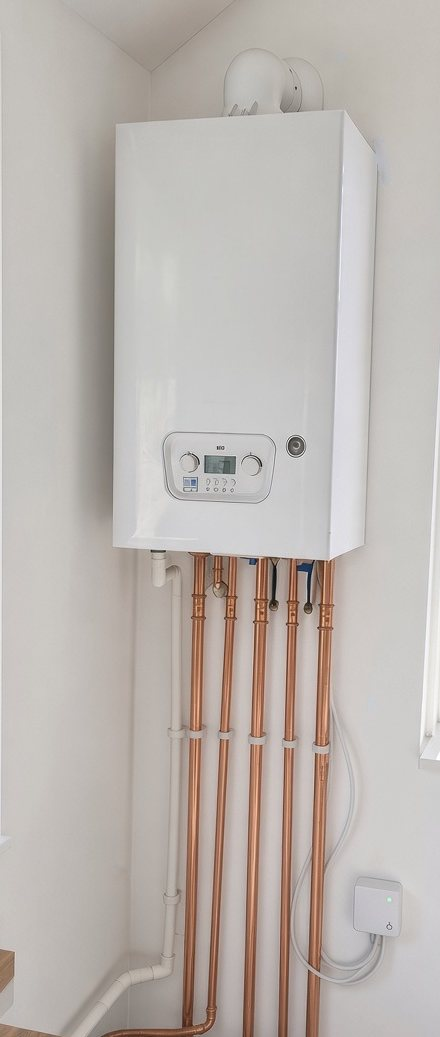
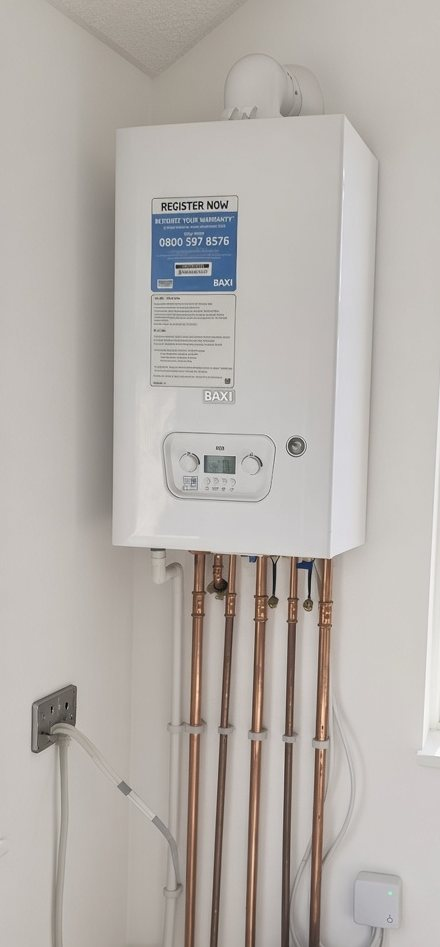
Before/after frames matched; kitchen 400 photo swapped for Gavin's new edit

diff --git a/index.html b/index.html
@@ -219,9 +219,9 @@
     </div>
     <div class="ba-feature">
       <div class="ba" id="ba-cyl">
-        <img src="assets/img/work/cylinder-1-before.jpg" alt="Before: old foam-lagged hot water cylinder with rust streaks" loading="lazy" width="576" height="1472">
-        <img class="ba-after" src="assets/img/work/cylinder-1.jpg" alt="After: new Megaflo unvented cylinder" loading="lazy" width="720" height="1525">
-        <input type="range" min="0" max="100" value="50" aria-label="Drag to compare before and after">
+        <img src="assets/img/work/cylinder-1-before.jpg" alt="Before: old foam-lagged hot water cylinder with rust streaks" loading="lazy" width="600" height="1429">
+        <img class="ba-after" src="assets/img/work/cylinder-1-after.jpg" alt="After: new Megaflo unvented cylinder" loading="lazy" width="600" height="1429">
+        <input type="range" min="0" max="100" value="42" aria-label="Drag to compare before and after">
         <span class="ba-line" aria-hidden="true"></span>
         <span class="ba-tag b">Before</span><span class="ba-tag a">After</span>
       </div>

diff --git a/assets/css/style.css b/assets/css/style.css
@@ -221,7 +221,7 @@ section.alt { background: var(--bg-alt); }
    top drives it, so it works by mouse, touch and keyboard with no library. */
 .ba-feature { display: grid; grid-template-columns: minmax(0, 320px) minmax(0, 1fr); gap: 32px; align-items: center; margin-bottom: 40px; }
 @media (max-width: 640px) { .ba-feature { grid-template-columns: 1fr; } .ba { margin: 0 auto; } }
-.ba { --pos: 50%; position: relative; width: 100%; max-width: 320px; aspect-ratio: 1 / 2; overflow: hidden;
+.ba { --pos: 42%; position: relative; width: 100%; max-width: 320px; aspect-ratio: 21 / 50; overflow: hidden;
   border-radius: var(--radius); border: 1px solid var(--line); box-shadow: var(--shadow); user-select: none; }
 .ba img { position: absolute; inset: 0; width: 100%; height: 100%; max-width: none; object-fit: cover; }
 .ba .ba-after { clip-path: inset(0 0 0 var(--pos)); }

diff --git a/HANDOFF.md b/HANDOFF.md
@@ -97,6 +97,7 @@ moves to `@grenergyscotland.co.uk`, change the delivery address in Web3Forms.
   Gavin's Samsung Object-eraser edit `20260725_141846(1).jpg` — installation
   unchanged, wall lightened; crop also removes Samsung's "AI-generated
   content" stamp (Gavin informed).
+- **17 Oct 2026, late — slider frames matched; kitchen 400 v2.** The before/after pair is cropped from the originals to the same 21:50 frame with the cylinder at the same height, size and position (centre at 42% across - the before shot cannot centre it without showing a coat), so the slider starts at 42%. Slider uses `cylinder-1-before.jpg` / `cylinder-1-after.jpg`; the card keeps `cylinder-1.jpg`. `boiler-4.jpg` replaced with Gavin's second Grok edit (`grok_1792275573681.jpg`) - keeps the real stickers, spur and ceiling, walls cleaned; cropped to drop a pipe vice, the window and the sink. One sticker line is slightly AI-garbled, unreadable at site size.
 - **17 Oct 2026, late — light only, drum gone, stories refined.** At Gavin's request: the "kit I work with" ghost-drum section removed (HTML/JS/CSS); dark mode removed - the site is light for everyone (dark mode was "dull and gloomy"); kitchen and radiator stories rewritten from his follow-up notes. Fixed on the way: the header "Get a quote" button had dark text on red for every light-mode visitor (`.nav a` colour beat `.btn-primary`).
 - **17 Oct 2026, late — before/after slider.** Recent work opens with a drag-to-compare slider for the Megaflo job (`#ba-cyl`, `.ba` in the stylesheet, script at the end of `main.js`): `cylinder-1-before.jpg` is Gavin's photo of the old foam-lagged cylinder, cropped to drop a coat on a hook and the door. A range input sits over two stacked images, so mouse, touch and keyboard all work and a click never lands on an image (which also stops image-clipper extensions firing).
 - **17 Oct 2026, late — kitchen 400 cleaned up.** `boiler-4.jpg` replaced
